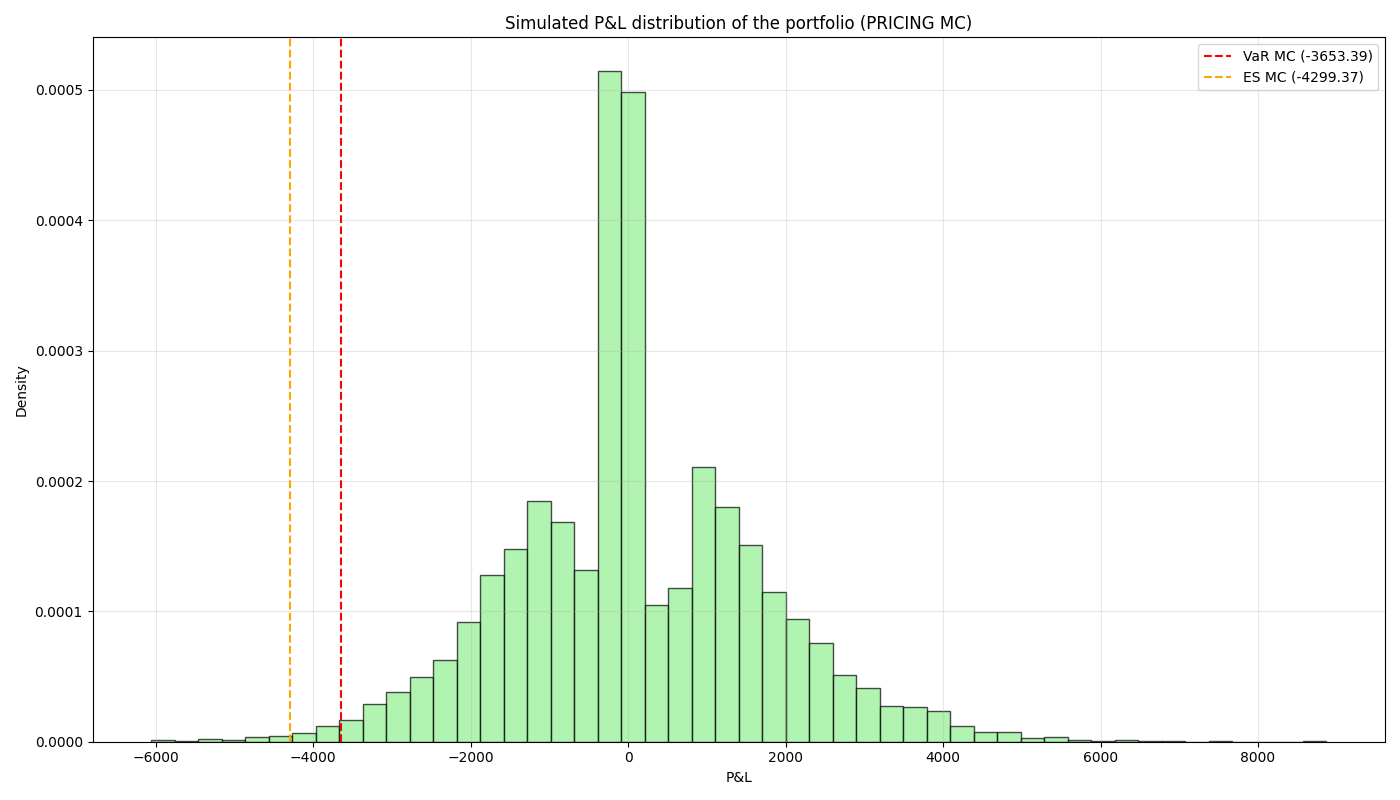
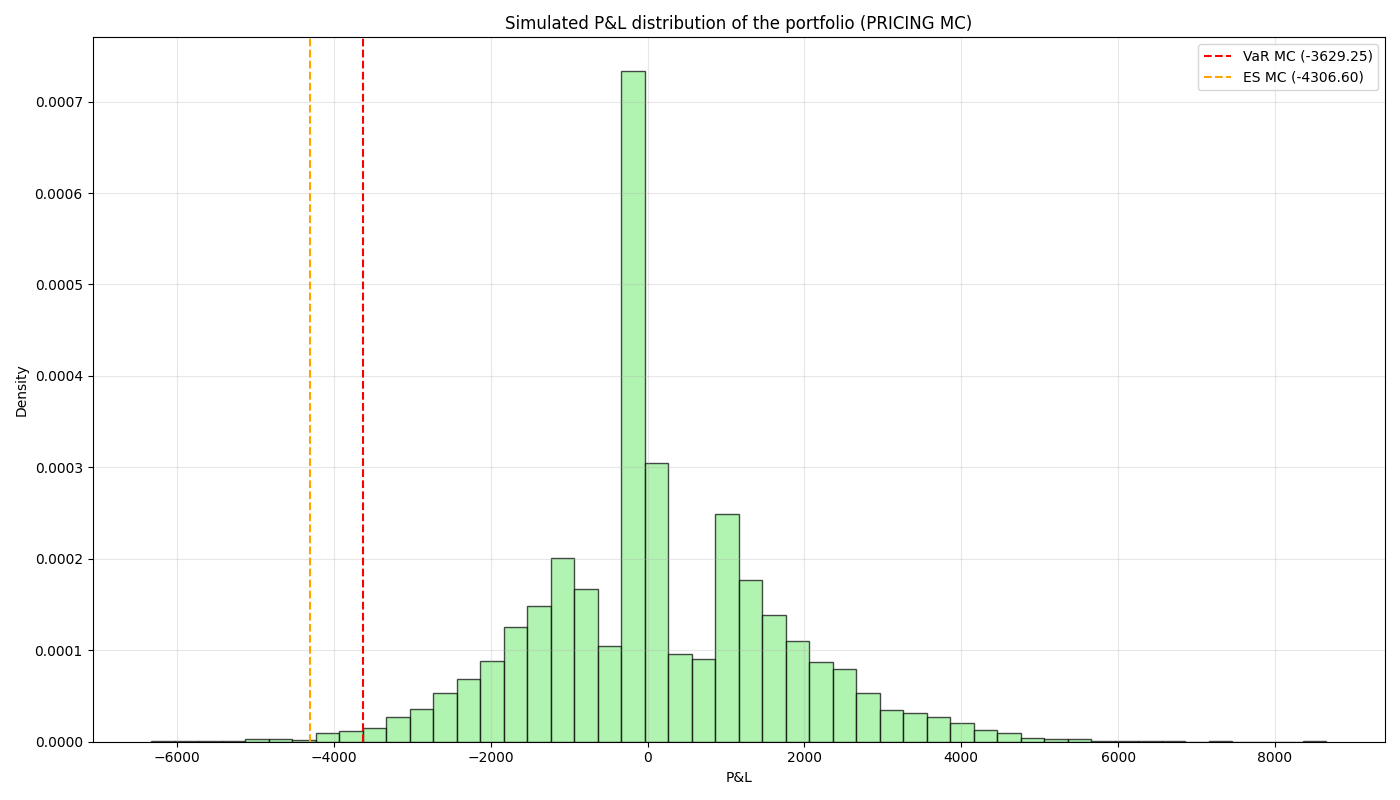
test

diff --git a/option_pricing/monte_carlo/mc_portfolio_analysis.py b/option_pricing/monte_carlo/mc_portfolio_analysis.py
@@ -24,7 +24,8 @@ from option_pricing.binomial_model.american_options.american_binomial import get
 #   'market_price': precio de mercado (para IV)
 # }
 
-np.random.seed(42)  # Set seed for reproducibility
+# Set a fixed seed for reproducibility
+np.random.seed(42)
 
 def black_scholes_call_price(S, K, T, r, sigma):
     d1 = (np.log(S / K) + (r + 0.5 * sigma ** 2) * T) / (sigma * np.sqrt(T))
@@ -66,7 +67,7 @@ def implied_volatility_option(market_price, S, K, T, r, option_type='call', tol=
     except Exception:
         return None
 
-def price_option_mc(opt, n_sim=10000, n_steps=50):
+def price_option_mc(opt, n_sim=1000, n_steps=50):
     iv = implied_volatility_option(opt['market_price'], opt['S'], opt['K'], opt['T'], opt['r'], opt['type'])
     if iv is None:
         ticker = opt.get('ticker', None)
@@ -74,13 +75,14 @@ def price_option_mc(opt, n_sim=10000, n_steps=50):
             iv = get_historical_volatility(ticker)
         else:
             iv = 0.2
+    seed = 42  # Fixed seed for reproducibility
     if opt['style'] == 'american':
-        price = american_option_longstaff_schwartz(opt['S'], opt['K'], opt['T'], opt['r'], iv, n_sim, n_steps, opt['type'])
+        price = american_option_longstaff_schwartz(opt['S'], opt['K'], opt['T'], opt['r'], iv, n_sim, n_steps, opt['type'], seed=seed)
     else:
-        price = monte_carlo_european_option(opt['S'], opt['K'], opt['T'], opt['r'], iv, n_sim, opt['type'])
+        price = monte_carlo_european_option(opt['S'], opt['K'], opt['T'], opt['r'], iv, n_sim, opt['type'], seed=seed)
     return price
 
-def option_greeks_mc(opt, n_sim=10000, n_steps=50):
+def option_greeks_mc(opt, n_sim=1000, n_steps=50):
     iv = implied_volatility_option(opt['market_price'], opt['S'], opt['K'], opt['T'], opt['r'], opt['type'])
     if iv is None:
         ticker = opt.get('ticker', None)
@@ -94,7 +96,7 @@ def option_greeks_mc(opt, n_sim=10000, n_steps=50):
         greeks = mc_greeks(opt['S'], opt['K'], opt['T'], opt['r'], iv, n_sim, opt['type'])
     return greeks
 
-def portfolio_greeks_mc(portfolio, n_sim=10000, n_steps=50):
+def portfolio_greeks_mc(portfolio, n_sim=1000, n_steps=50):
     total = {'delta': 0, 'gamma': 0, 'vega': 0, 'theta': 0, 'rho': 0}
     for opt in portfolio:
         greeks = option_greeks_mc(opt, n_sim, n_steps)
@@ -158,9 +160,9 @@ def run_sensitivity_analysis_mc(portfolio, N, n_sim_sens, vis_dir, horizon):
     from .mc_portfolio_analysis import portfolio_greeks_mc, price_option_mc
     n_sim_greeks = 100000
     hedge_strategies = [
-        ('Original', portfolio),
-        ('Delta Hedge', portfolio + [{
-            'type': 'call', 'style': 'european', 'S': portfolio[0]['S'], 'K': portfolio[0]['K'], 'T': portfolio[0]['T'], 'r': portfolio[0]['r'], 'qty': -portfolio_greeks_mc(portfolio, n_sim=n_sim_greeks, n_steps=N)['delta'], 'market_price': portfolio[0]['market_price']
+        ('Original', copy.deepcopy(portfolio)),
+        ('Delta Hedge', copy.deepcopy(portfolio) + [{
+            'type': 'call', 'style': 'european', 'S': portfolio[0]['S'], 'K': portfolio[0]['K'], 'T': portfolio[0]['T'], 'r': portfolio[0]['r'], 'qty': -portfolio_greeks_mc(portfolio, n_sim=n_sim_greeks, n_steps=N_steps)['delta'], 'market_price': portfolio[0]['market_price']
         }]),
         # Gamma y Vega hedge requieren lógica previa, pero para automatización rápida usamos las carteras ya generadas en la llamada principal
     ]
@@ -180,7 +182,7 @@ def run_sensitivity_analysis_mc(portfolio, N, n_sim_sens, vis_dir, horizon):
     for name, port in hedge_strategies:
         values = []
         for S in spot_range:
-            port_mod = [opt.copy() for opt in port]
+            port_mod = copy.deepcopy(port)
             for opt in port_mod:
                 opt['S'] = S
             values.append(sum(price_option_mc(opt, n_sim=n_sim_sens, n_steps=N) * opt['qty'] for opt in port_mod))
@@ -214,6 +216,7 @@ def run_sensitivity_analysis_mc(portfolio, N, n_sim_sens, vis_dir, horizon):
     plt.tight_layout()
     plt.savefig(os.path.join(vis_dir, 'sensitivity_spot_mc.png'))
     plt.close()
+
     # 2. Sensibilidad tipo de interés (±1%)
     r_base = portfolio[0]['r']
     r_range = np.linspace(r_base-0.01, r_base+0.01, 21)
@@ -227,7 +230,7 @@ def run_sensitivity_analysis_mc(portfolio, N, n_sim_sens, vis_dir, horizon):
     for name, port in hedge_strategies:
         values = []
         for r in r_range:
-            port_mod = [opt.copy() for opt in port]
+            port_mod = copy.deepcopy(port)
             for opt in port_mod:
                 opt['r'] = r
             values.append(sum(price_option_mc(opt, n_sim=n_sim_sens, n_steps=N) * opt['qty'] for opt in port_mod))
@@ -261,6 +264,7 @@ def run_sensitivity_analysis_mc(portfolio, N, n_sim_sens, vis_dir, horizon):
     plt.tight_layout()
     plt.savefig(os.path.join(vis_dir, 'sensitivity_r_mc.png'))
     plt.close()
+
     # 3. Sensibilidad volatilidad (±20%)
     plt.figure(figsize=(12,7))
     vol_base = 1.0
@@ -274,7 +278,7 @@ def run_sensitivity_analysis_mc(portfolio, N, n_sim_sens, vis_dir, horizon):
     for name, port in hedge_strategies:
         values = []
         for vol_mult in vol_range:
-            port_mod = [opt.copy() for opt in port]
+            port_mod = copy.deepcopy(port)
             for opt in port_mod:
                 iv = implied_volatility_option(opt['market_price'], opt['S'], opt['K'], opt['T'], opt['r'], opt['type'])
                 if iv is None:
@@ -322,12 +326,13 @@ if __name__ == "__main__":
     ]
     horizonte_dias = 10 / 252
     N_steps = 20
-    n_sim_main = 50000      # Para P&L y VaR/ES
-    n_sim_greeks = 100000   # Para griegas
-    n_sim_sens = 20000      # Para sensibilidades
+    n_sim_main = 10000      # Para P&L y VaR/ES
+    n_sim_greeks = 10000   # Para griegas
+    n_sim_sens = 10000      # Para sensibilidades
 
-    # Calculate initial portfolio value
+    # Use direct calculation for portfolio valuation
     initial_portfolio_value = sum(price_option_mc(opt, n_sim=n_sim_greeks, n_steps=N_steps) * opt['qty'] for opt in portfolio)
+    value_mc = sum(price_option_mc(opt, n_sim=n_sim_greeks, n_steps=N_steps) * opt['qty'] for opt in portfolio)
 
     print("\n" + "="*60)
     print("OPTION PORTFOLIO SUMMARY USING MONTE CARLO (MC MODELS)")
@@ -336,7 +341,6 @@ if __name__ == "__main__":
     pnl_mc = sim_mc['pnl']
     shocks_mc = sim_mc['shocks']
     var_mc, es_mc = var_es(pnl_mc, alpha=0.01)
-    value_mc = sum(price_option_mc(opt, n_sim=n_sim_greeks, n_steps=N_steps) * opt['qty'] for opt in portfolio)
     greeks_total_mc = portfolio_greeks_mc(portfolio, n_sim=n_sim_greeks, n_steps=N_steps)
     for i, opt in enumerate(portfolio, 1):
         price_mc = price_option_mc(opt, n_sim=n_sim_greeks, n_steps=N_steps)
@@ -467,7 +471,7 @@ if __name__ == "__main__":
             shocked_opt = opt.copy()
             shocked_opt['S'] = S_T
             shocked_portfolio.append(shocked_opt)
-        val = sum(price_option_mc(opt, n_sim=500, n_steps=N_steps) * opt['qty'] for opt in shocked_portfolio)
+        val = sum(price_option_mc(opt, n_sim=n_sim_greeks, n_steps=N_steps) for opt in shocked_portfolio)
         hedge_pnl = 0
         S0 = portfolio[0]['S']
         delta = delta_gamma_hedged_mc
@@ -514,26 +518,22 @@ if __name__ == "__main__":
     # 4. Simula P&L con vega hedge usando los mismos shocks
     pnl_vega_hedged_mc = []
     for i in range(len(pnl_mc)):
-        shocked_portfolio = []
-        for opt in portfolio_vega_hedged_mc:
-            key = opt.get('ticker', opt['S'])
-            S0 = opt['S']
-            iv = implied_volatility_option(opt['market_price'], opt['S'], opt['K'], opt['T'], opt['r'], opt['type'])
-            if iv is None:
-                ticker = opt.get('ticker', None)
-                if ticker is not None:
-                    iv = get_historical_volatility(ticker)
-                else:
-                    iv = 0.2
-            r = opt['r']
-            T_sim = horizonte_dias if horizonte_dias is not None else opt['T']
-            Z = shocks_mc[key][i] if key in shocks_mc else np.random.normal(0, 1)
+        hedge_pnl = 0
+        for key, v in subyacentes_mc.items():
+            S0 = v['S0']
+            delta = v['delta']
+            Z = shocks_mc[key][i]
+            for opt in portfolio:
+                if opt.get('ticker', opt['S']) == key:
+                    iv = implied_volatility_option(opt['market_price'], opt['S'], opt['K'], opt['T'], opt['r'], opt['type'])
+                    if iv is None:
+                        iv = 0.2
+                    r = opt['r']
+                    T_sim = horizonte_dias if horizonte_dias is not None else opt['T']
+                    break
             S_T = S0 * np.exp((r - 0.5 * iv ** 2) * T_sim + iv * np.sqrt(T_sim) * Z)
-            shocked_opt = opt.copy()
-            shocked_opt['S'] = S_T
-            shocked_portfolio.append(shocked_opt)
-        val = sum(price_option_mc(opt, n_sim=500, n_steps=N_steps) * opt['qty'] for opt in shocked_portfolio)
-        pnl_vega_hedged_mc.append(val - value_mc)
+            hedge_pnl += -delta * (S_T - S0)
+        pnl_vega_hedged_mc.append(pnl_mc[i] + hedge_pnl)
     pnl_vega_hedged_mc = np.array(pnl_vega_hedged_mc)
     var_vega_hedged_mc, es_vega_hedged_mc = var_es(pnl_vega_hedged_mc, alpha=0.01)
     print(f"Vega hedge: qty = {qty_vega_hedge_mc:.4f} of ATM call (S={hedge_opt_vega_mc['S']}, K={hedge_opt_vega_mc['K']}) covering {vega_hedge_fraction*100:.0f}% of vega")
@@ -578,8 +578,8 @@ if __name__ == "__main__":
 
     # Estrategias de hedge
     hedge_strategies = [
-        ('Original', portfolio),
-        ('Delta Hedge', portfolio + [{
+        ('Original', copy.deepcopy(portfolio)),
+        ('Delta Hedge', copy.deepcopy(portfolio) + [{
             'type': 'call', 'style': 'european', 'S': portfolio[0]['S'], 'K': portfolio[0]['K'], 'T': portfolio[0]['T'], 'r': portfolio[0]['r'], 'qty': -portfolio_greeks_mc(portfolio, n_sim=n_sim_greeks, n_steps=N_steps)['delta'], 'market_price': portfolio[0]['market_price']
         }]),
         ('Delta-Gamma Hedge', portfolio_gamma_hedged_mc),
@@ -587,7 +587,7 @@ if __name__ == "__main__":
     ]
 
     # Calculate initial portfolio value for sensitivity analysis
-    initial_portfolio_value = value_mc  
+    initial_portfolio_value = sum(price_option_mc(opt, n_sim=n_sim_greeks, n_steps=N_steps) * opt['qty'] for opt in portfolio)
 
     # 1. Sensibilidad Spot (±10%)
     spot_base = portfolio[0]['S']
@@ -602,7 +602,7 @@ if __name__ == "__main__":
     for name, port in hedge_strategies:
         values = []
         for S in spot_range:
-            port_mod = [opt.copy() for opt in port]
+            port_mod = copy.deepcopy(port)
             for opt in port_mod:
                 opt['S'] = S
             values.append(sum(price_option_mc(opt, n_sim=n_sim_sens, n_steps=N_steps) * opt['qty'] for opt in port_mod))
@@ -650,7 +650,7 @@ if __name__ == "__main__":
     for name, port in hedge_strategies:
         values = []
         for r in r_range:
-            port_mod = [opt.copy() for opt in port]
+            port_mod = copy.deepcopy(port)
             for opt in port_mod:
                 opt['r'] = r
             values.append(sum(price_option_mc(opt, n_sim=n_sim_sens, n_steps=N_steps) * opt['qty'] for opt in port_mod))
@@ -698,7 +698,7 @@ if __name__ == "__main__":
     for name, port in hedge_strategies:
         values = []
         for vol_mult in vol_range:
-            port_mod = [opt.copy() for opt in port]
+            port_mod = copy.deepcopy(port)
             for opt in port_mod:
                 iv = implied_volatility_option(opt['market_price'], opt['S'], opt['K'], opt['T'], opt['r'], opt['type'])
                 if iv is None:
